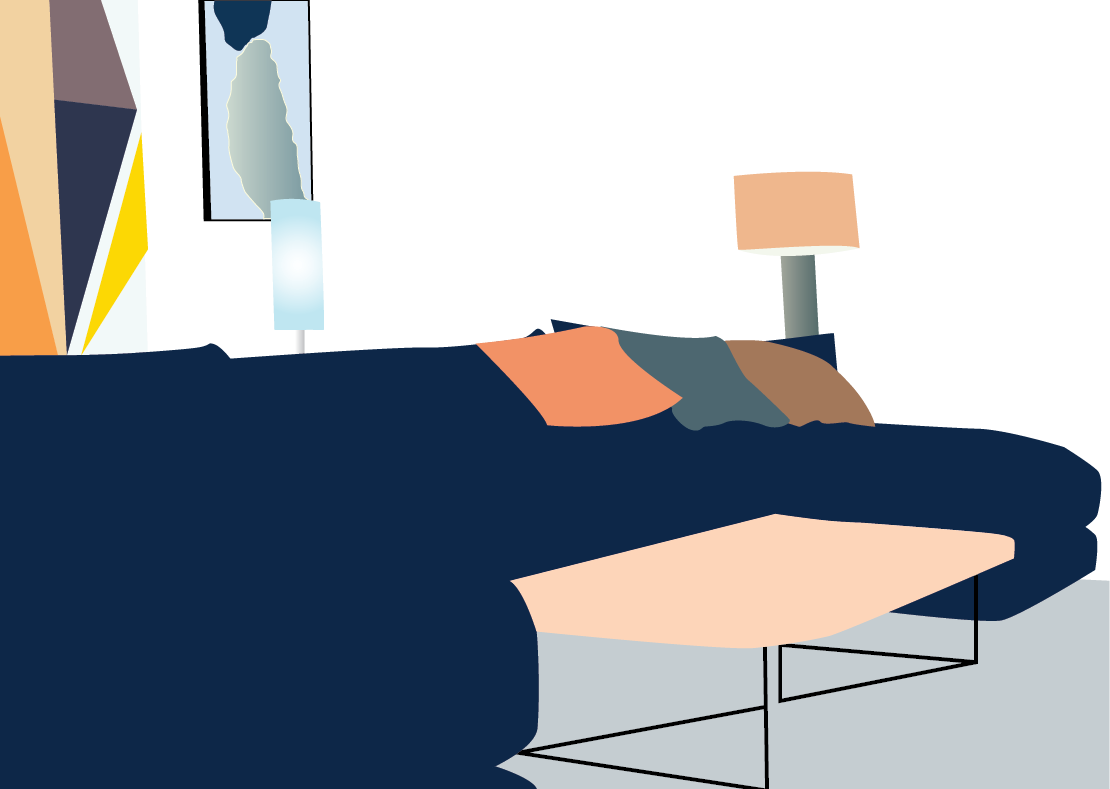
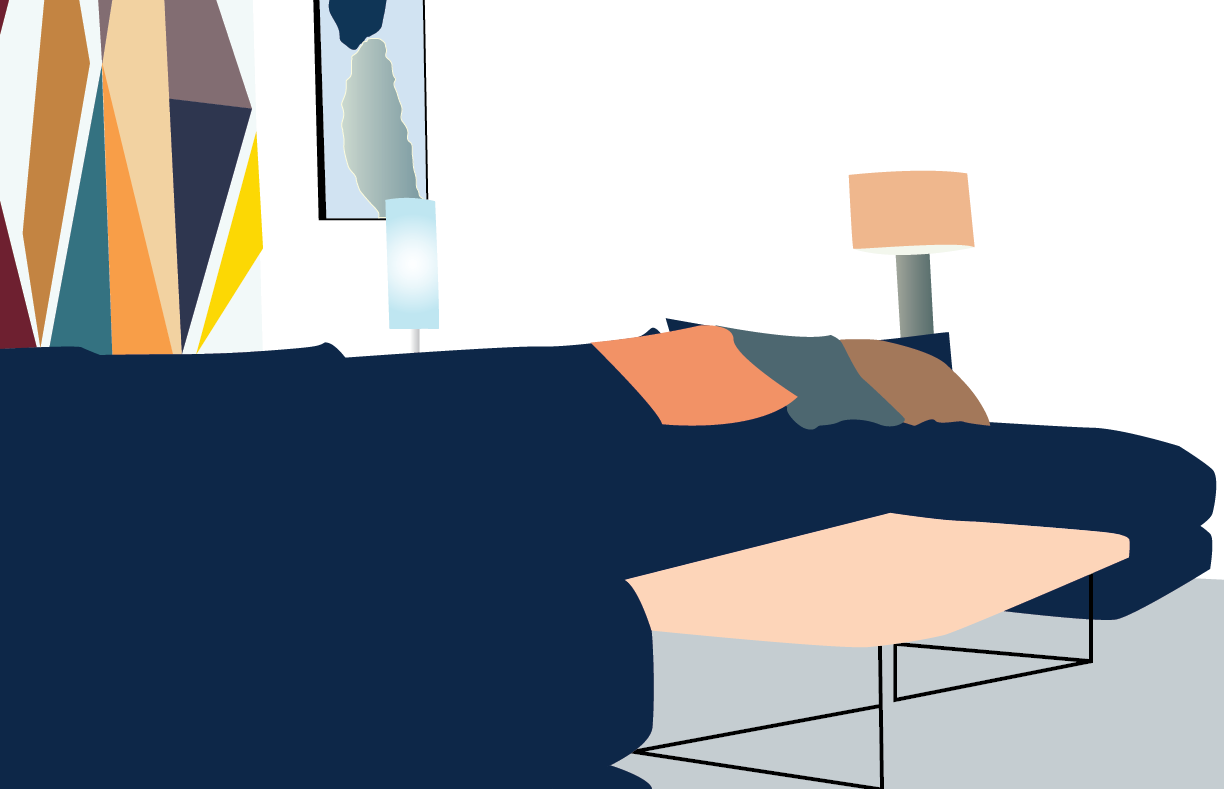
images as links

diff --git a/sketch.js b/sketch.js
@@ -6,19 +6,31 @@ function setup() {
   link4 = createA("index4.html", "EPISODE 4- ROSE");
   link5 = createA("index5.html", "EPISODE 5- ILL BELIEVE IN ANYTHING");
   link6 = createA("index6.html", "EPISODE 6- THE COTTAGE");
-  link11 = createA("index.html",
-    '<img src="assets/episode_1/episode_1.png", alt="episode_1">',);
-  link22 = createA("index.html",
-    '<img src="assets/episode_2/episode_2_background.png", alt="episode_2">',);
-  link33 = createA("index.html",
-    '<img src="assets/episode_3/episode_3_background_link.png", alt="episode_3">',);
-  link44 = createA("index.html",
-    '<img src="assets/episode_4/episode_4_background.png", alt="episode_4">',);
-  link55 = createA("index.html",
-    '<img src="assets/episode_5/episode_5_background.png", alt="episode_5">',);
-  link66 = createA("index.html",
-    '<img src="assets/episode_6/episode_6_background.png", alt="episode_6">',);
-  cursor('assets/HR.png');
+  link11 = createA(
+    "index.html",
+    '<img src="assets/episode_1/episode_1.png", alt="episode_1">',
+  );
+  link22 = createA(
+    "index.html",
+    '<img src="assets/episode_2/episode_2_background.png", alt="episode_2_background">',
+  );
+  link33 = createA(
+    "index.html",
+    '<img src="assets/episode_3/episode_3_background.png", alt="episode_3_background">',
+  );
+  link44 = createA(
+    "index.html",
+    '<img src="assets/episode_4/episode_4_background.png", alt="episode_4_background">',
+  );
+  link55 = createA(
+    "index.html",
+    '<img src="assets/episode_5/episode_5_background.png", alt="episode_5_background">',
+  );
+  link66 = createA(
+    "index.html",
+    '<img src="assets/episode_6/episode_6_background.png", alt="episode_6_background">',
+  );
+  cursor("assets/HR.png");
 }
 
 function draw() {
@@ -40,12 +52,11 @@ function draw() {
   link1.style("color", "black");
   link1.style("text-decoration", "none");
   link1.style("font-family", "zumme");
-  link11.position(-280, 11);
-  link11.style("transform", "scale(0.35)");
   noStroke();
   fill("#D9DDE9");
   rect(71, 225, 427, 281);
-  //image(img1, 57, 234, 434, 243);
+  link11.position(-280, 11);
+  link11.style("transform", "scale(0.35)");
 
   //episode 2
   link2.position(631, 550);
@@ -55,12 +66,11 @@ function draw() {
   link2.style("color", "black");
   link2.style("text-decoration", "none");
   link2.style("font-family", "zumme");
-  link22.position (241, 68);
-  link22.style("transform", "scale(0.35)");
   noStroke();
   fill("#111C45");
   rect(585, 225, 427, 281);
-  //image(img2, 571, 252, 434, 225);
+  link22.position(241, 68);
+  link22.style("transform", "scale(0.35)");
 
   //episode 3
   link3.position(1146, 550);
@@ -70,11 +80,11 @@ function draw() {
   link3.style("color", "black");
   link3.style("text-decoration", "none");
   link3.style("font-family", "zumme");
-  link33.position(1151, 267);
   noStroke();
   fill("#163355");
-  rect(1103, 225, 430, 281);
-  //image(img3, 1086, 225, 434, 252);
+  rect(1100, 224, 429, 282);
+  link33.position(748, 12.5);
+  link33.style("transform", "scale(0.35)");
 
   //episode 4
   link4.position(117, 887);
@@ -84,12 +94,11 @@ function draw() {
   link4.style("color", "black");
   link4.style("text-decoration", "none");
   link4.style("font-family", "zumme");
-  link44.position (67, 562);
-  link44.style("transform", "scale(0.35)");
   noStroke();
   fill("#F5FDFF");
-  rect(71, 562, 427, 281);
-  //image(img4, 57, 567, 434, 252);
+  rect(71, 567, 427, 274);
+  link44.position(-282, 352);
+  link44.style("transform", "scale(0.35)");
 
   //episode 5
   link5.position(631, 887);
@@ -99,12 +108,11 @@ function draw() {
   link5.style("color", "black");
   link5.style("text-decoration", "none");
   link5.style("font-family", "zumme");
-  link55.position (581, 562);
-  link55.style("transform", "scale(0.35)");
   noStroke();
   fill("#A3DEF8");
-  rect(585, 562, 427, 281);
-  //image(img5, 571, 567, 434, 252);
+  rect(585, 567, 427, 274);
+  link55.position(232, 350);
+  link55.style("transform", "scale(0.35)");
 
   //episode 6
   link6.position(1146, 887);
@@ -114,10 +122,9 @@ function draw() {
   link6.style("color", "black");
   link6.style("text-decoration", "none");
   link6.style("font-family", "zumme");
-  link66.position (1096, 582);
-  link66.style("transform", "scale(0.35)");
   noStroke();
   fill("#FDE9BD");
-  rect(1100, 562, 427, 281);
-  //image(img6, 1086, 585, 434, 234);
+  rect(1100, 567, 427, 274);
+  link66.position(750, 351);
+  link66.style("transform", "scale(0.35)");
 }